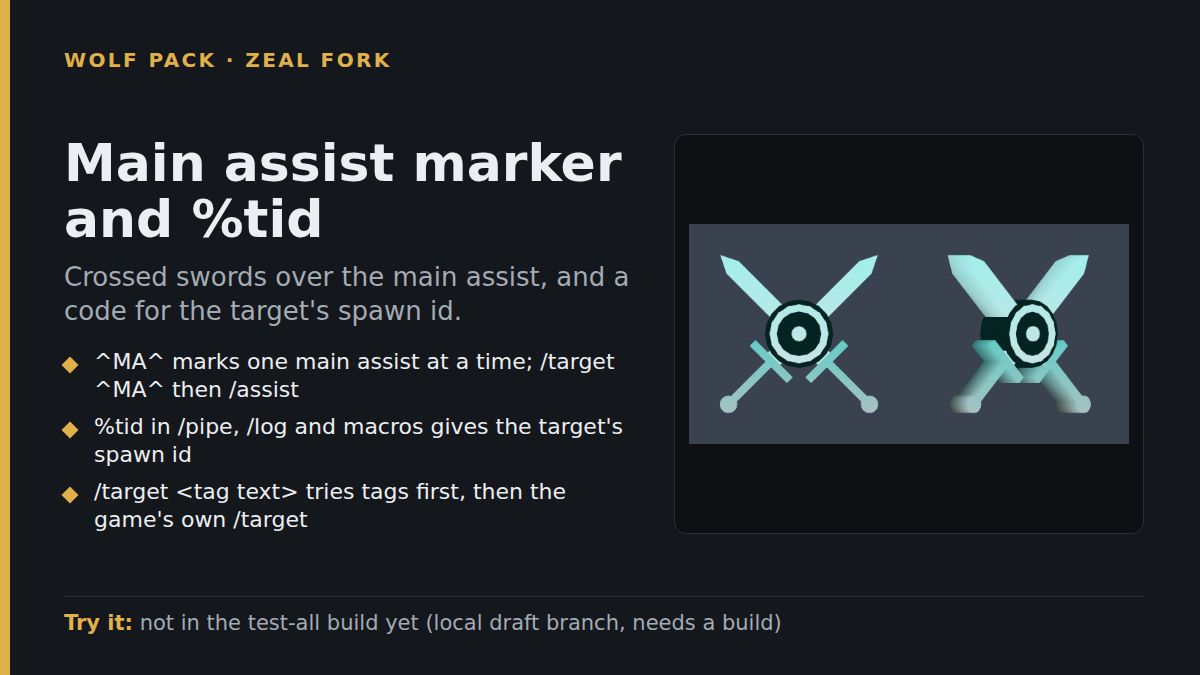
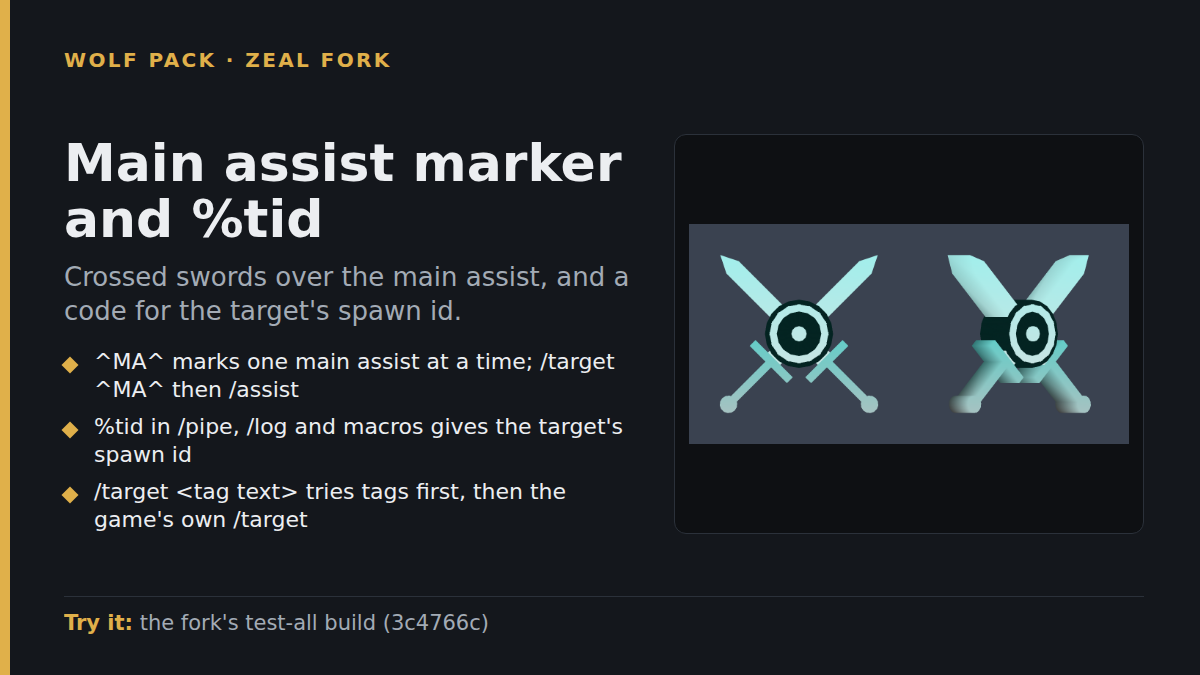
showcase: four drafts now in the test-all build (3c4766c)
Claude-Session: https://claude.ai/code/session_01Uq6P6RYLtiKKfy5UWjT7AX

Changed region(s): [[0.1233, 0.9022, 0.6475, 0.9333]]

diff --git a/showcase/README.md b/showcase/README.md
@@ -27,10 +27,10 @@ The table is generated by `tools/render-posters.js` from the JSON files in `post
 | [<img src="posters/hide-ui-cursor-banner.png" width="320" alt="A cursor with the UI hidden">](posters/hide-ui-cursor.png) | **[A cursor with the UI hidden](hide-ui-cursor/README.md)**<br>Press F10 and still see your mouse, so you can still click mobs. | draft<br>`hide-ui-cursor` |  | [test-all](https://github.com/davehess/Zeal/releases/tag/test-all-build) | [cases](hide-ui-cursor/TEST-CASES.md) |
 | [<img src="posters/guild-emblems-banner.png" width="320" alt="Guild banners, icons and marks">](posters/guild-emblems.png) | **[Guild banners, icons and marks](guild-emblems/README.md)**<br>Every guild gets a flag and an icon, and players can show their guild automatically. | draft<br>`tag-shapes` |  | [test-all](https://github.com/davehess/Zeal/releases/tag/test-all-build) | [cases](guild-emblems/TEST-CASES.md) |
 | [<img src="posters/spawn-id-banner.png" width="320" alt="Spawn ids on the Zeal pipe">](posters/spawn-id.png) | **[Spawn ids on the Zeal pipe](spawn-id/README.md)**<br>Tools can now tell two mobs with the same name apart. | merged<br>`merged upstream (1.4.6)` | [CoastalRedwood/Zeal/pull/229](https://github.com/CoastalRedwood/Zeal/pull/229) | [test-all](https://github.com/davehess/Zeal/releases/tag/test-all-build) | [cases](spawn-id/TEST-CASES.md) |
-| [<img src="posters/main-assist-banner.png" width="320" alt="Main assist marker and %tid">](posters/main-assist.png) | **[Main assist marker and %tid](main-assist/README.md)**<br>Crossed swords over the main assist, and a code for the target's spawn id. | draft<br>`ma-draft (local)` |  | not yet | [cases](main-assist/TEST-CASES.md) |
-| [<img src="posters/mez-slow-keys-banner.png" width="320" alt="Mez and slow tags">](posters/mez-slow-keys.png) | **[Mez and slow tags](mez-slow-keys/README.md)**<br>The moon becomes ^MEZ^, and ^SLOW^ adds an hourglass. | draft<br>`ma-draft (local)` |  | not yet | [cases](mez-slow-keys/TEST-CASES.md) |
-| [<img src="posters/auto-raid-lead-banner.png" width="320" alt="Raid lead by password">](posters/auto-raid-lead.png) | **[Raid lead by password](auto-raid-lead/README.md)**<br>/autoraidinvite now survives a restart, and /autoraidlead hands over raid lead. | draft<br>`raidlead-draft (local)` |  | not yet | [cases](auto-raid-lead/TEST-CASES.md) |
-| [<img src="posters/guild-icon-refresh-banner.png" width="320" alt="Guild icons and banners, round two">](posters/guild-icon-refresh.png) | **[Guild icons and banners, round two](guild-icon-refresh/README.md)**<br>Every guild banner carries the guild's own icon, in its own colours, and the guild's full name. | draft<br>`guildicon-draft (local)` |  | not yet | [cases](guild-icon-refresh/TEST-CASES.md) |
+| [<img src="posters/main-assist-banner.png" width="320" alt="Main assist marker and %tid">](posters/main-assist.png) | **[Main assist marker and %tid](main-assist/README.md)**<br>Crossed swords over the main assist, and a code for the target's spawn id. | draft<br>`ma-draft` |  | [test-all](https://github.com/davehess/Zeal/releases/tag/test-all-build) | [cases](main-assist/TEST-CASES.md) |
+| [<img src="posters/mez-slow-keys-banner.png" width="320" alt="Mez and slow tags">](posters/mez-slow-keys.png) | **[Mez and slow tags](mez-slow-keys/README.md)**<br>The moon becomes ^MEZ^, and ^SLOW^ adds an hourglass. | draft<br>`ma-draft` |  | [test-all](https://github.com/davehess/Zeal/releases/tag/test-all-build) | [cases](mez-slow-keys/TEST-CASES.md) |
+| [<img src="posters/auto-raid-lead-banner.png" width="320" alt="Raid lead by password">](posters/auto-raid-lead.png) | **[Raid lead by password](auto-raid-lead/README.md)**<br>/autoraidinvite now survives a restart, and /autoraidlead hands over raid lead. | draft<br>`raidlead-draft` |  | [test-all](https://github.com/davehess/Zeal/releases/tag/test-all-build) | [cases](auto-raid-lead/TEST-CASES.md) |
+| [<img src="posters/guild-icon-refresh-banner.png" width="320" alt="Guild icons and banners, round two">](posters/guild-icon-refresh.png) | **[Guild icons and banners, round two](guild-icon-refresh/README.md)**<br>Every guild banner carries the guild's own icon, in its own colours, and the guild's full name. | draft<br>`guildicon-draft` |  | [test-all](https://github.com/davehess/Zeal/releases/tag/test-all-build) | [cases](guild-icon-refresh/TEST-CASES.md) |
 <!-- index:end -->
 
 ## Folders

diff --git a/showcase/auto-raid-lead/README.md b/showcase/auto-raid-lead/README.md
@@ -2,7 +2,7 @@
 
 # Auto raid lead, and `/autoraidinvite` that survives a restart
 
-*Local draft branch `raidlead-draft` on our fork (`b15b8a2`, on top of `ma-draft`). Status: draft, not pushed, not compiled. Needs a two-person raid test before anyone relies on it.*
+*Fork branch `raidlead-draft` (`b15b8a2`, on top of `ma-draft`). Status: draft; in the test-all build, compiled by GitHub, not yet run in game. Needs a two-person raid test before anyone relies on it.*
 
 ![Diagram: leader sets a password, a raid member tells it, checks pass, raid lead moves](diagram.png)
 
@@ -20,7 +20,7 @@ Both passwords live in `zeal.ini` under `AutoRaidInvite` and `AutoRaidLead`. A t
 - Honest status: not compiled and not run in game; reviewed by reading only. The packet layout was built from the server source and must be proven in a two-person raid.
 - Open question for the maintainers: Quarm's rules on automation. This acts on a tell the way `/autoraidinvite` already does, but a written view would help.
 
-**Try it:** not in the fork's test-all build yet (https://github.com/davehess/Zeal/releases/tag/test-all-build). It needs a build of `raidlead-draft`.
+**Try it:** in the fork's test-all build (https://github.com/davehess/Zeal/releases/tag/test-all-build), `3c4766c` or later.
 
 ---
 [Test cases](TEST-CASES.md) · [Poster](../posters/auto-raid-lead.png) · [All changes](../README.md)

diff --git a/showcase/guild-icon-refresh/README.md b/showcase/guild-icon-refresh/README.md
@@ -2,7 +2,7 @@
 
 # Guild icons and banners, round two
 
-*Fork branch `guildicon-draft` (`dca0b85`, local, stacked on `raidlead-draft`). Status: draft, not compiled with Visual Studio yet.*
+*Fork branch `guildicon-draft` (`dca0b85`, on `ma-draft`). Status: draft; in the test-all build, compiled by GitHub on 2026-10-10, not yet run in game.*
 
 ![Every guild's icon beside its new banner](icons-vs-banners.png)
 
@@ -29,9 +29,9 @@ their own. The flag keeps the guild's colour, so colour still tells guilds apart
 **How tested**
 - Every banner and the cigarette were rendered off the game from the real meshes, each beside its icon (above).
 - `tag_shapes.cpp` compiles cleanly with `g++ -Wall -Wextra`.
-- `tag_arrows.cpp` (Direct3D) is not compiled yet, and nothing has run in game. Cases are in [`TEST-CASES.md`](TEST-CASES.md).
+- The whole fork, `tag_arrows.cpp` (Direct3D) included, compiled in the GitHub build of test-all (`3c4766c`); nothing has run in game yet. Cases are in [`TEST-CASES.md`](TEST-CASES.md).
 
-**Try it:** not in the fork's test-all build yet (https://github.com/davehess/Zeal/releases/tag/test-all-build).
+**Try it:** in the fork's test-all build (https://github.com/davehess/Zeal/releases/tag/test-all-build), `3c4766c` or later.
 
 ---
 [Test cases](TEST-CASES.md) · [Poster](../posters/guild-icon-refresh.png) · [All changes](../README.md)

diff --git a/showcase/mez-slow-keys/README.md b/showcase/mez-slow-keys/README.md
@@ -2,7 +2,7 @@
 
 # Mez and slow tags: the moon is `^MEZ^`, plus a `^SLOW^` hourglass
 
-*Local draft branch `ma-draft` on our fork (`116d3ed`). Status: draft, not pushed, not compiled. It changes a key from the tag shapes change, so it should land with or after it.*
+*Fork branch `ma-draft` (`116d3ed`). Status: draft; in the test-all build, compiled by GitHub, not yet run in game. It changes a key from the tag shapes change, so it should land with or after it.*
 
 ![The moon (mez) and the new hourglass (slow), front and turned](mez-slow.png)
 
@@ -20,7 +20,7 @@ All multi-letter keys (`WP`, `MA`, `MEZ`, `SLOW`) now live in one table read by 
 - The shape file builds clean with g++ and both meshes were previewed off the game.
 - Known breaking point: an existing `^M^` tag stops drawing a moon, so anything that watches for it (our raid tools included) has to learn `^MEZ^`. The cases in [`TEST-CASES.md`](TEST-CASES.md) check the old and new keys side by side.
 
-**Try it:** not in the fork's test-all build yet (https://github.com/davehess/Zeal/releases/tag/test-all-build). It needs a build of `ma-draft`.
+**Try it:** in the fork's test-all build (https://github.com/davehess/Zeal/releases/tag/test-all-build), `3c4766c` or later.
 
 ---
 [Test cases](TEST-CASES.md) · [Poster](../posters/mez-slow-keys.png) · [All changes](../README.md)

diff --git a/showcase/main-assist/README.md b/showcase/main-assist/README.md
@@ -2,7 +2,7 @@
 
 # Main assist marker, `%tid`, and `/target` by tag
 
-*Local draft branch `ma-draft` on our fork (`206b884`, three commits on top of the test build). Status: draft, not pushed, not compiled.*
+*Fork branch `ma-draft` (`206b884`). Status: draft; in the test-all build, compiled by GitHub on 2026-10-10, not yet run in game.*
 
 ![The main assist marker, front and turned: crossed swords with a target on the crossing](mainassist-swords.png)
 
@@ -22,7 +22,7 @@ Take main assist: target yourself, then `/tag chat ^MA^`. Everyone else: `/targe
 - The shape file builds clean with g++ and the mesh was previewed off the game (352 vertices, colour checked unique against every other tag).
 - The next step is a build and the cases in [`TEST-CASES.md`](TEST-CASES.md), including a two-client check that the marker moves.
 
-**Try it:** not in the fork's test-all build yet (https://github.com/davehess/Zeal/releases/tag/test-all-build). It needs a build of `ma-draft`.
+**Try it:** in the fork's test-all build (https://github.com/davehess/Zeal/releases/tag/test-all-build), `3c4766c` or later.
 
 ---
 [Test cases](TEST-CASES.md) · [Poster](../posters/main-assist.png) · [All changes](../README.md)

diff --git a/showcase/main-assist/TEST-CASES.md b/showcase/main-assist/TEST-CASES.md
@@ -1,7 +1,7 @@
 # Test cases: main assist marker, `%tid`, and `/target` by tag
 
-For the local draft branch `ma-draft` (`206b884`). It is **not compiled with MSVC, not pushed, and not in the
-test-all build**: build it first (the fork's README has the msbuild line) and install the resulting `Zeal.asi`. Cases 1
+For the fork branch `ma-draft` (`206b884`), included in the test-all build (`3c4766c`, compiled by GitHub, **not yet
+run in game**). Install that build's `Zeal.asi` (or Mimic → Settings → Zeal → Test build). Cases 1
 to 3 need one client; 4 to 9 need two clients in one raid.
 
 **Common setup:** `/tag on`. A first build that does not compile is itself a result: note the errors under case 1.

diff --git a/showcase/mez-slow-keys/TEST-CASES.md b/showcase/mez-slow-keys/TEST-CASES.md
@@ -1,7 +1,7 @@
 # Test cases: `^MEZ^` moon and `^SLOW^` hourglass
 
-For the local draft branch `ma-draft` (`116d3ed`, included in `206b884`). **Not compiled with MSVC, not pushed, not in the
-test-all build.** Build it and install `Zeal.asi` first. It changes the moon key from `^M^`, so these cases check the old
+For the fork branch `ma-draft` (`116d3ed`, included in `206b884`), in the test-all build (`3c4766c`, compiled by
+GitHub, **not yet run in game**). Install that build's `Zeal.asi` first. It changes the moon key from `^M^`, so these cases check the old
 and new keys side by side.
 
 **Common setup:** `/tag on`, target an NPC, use `/tag local`. Finish with `/tag clear`.

diff --git a/showcase/guild-icon-refresh/TEST-CASES.md b/showcase/guild-icon-refresh/TEST-CASES.md
@@ -1,8 +1,8 @@
 # Test cases: guild icon and banner refresh
 
-For the fork branch `guildicon-draft` (`dca0b85`). **Not compiled with MSVC, not run in game.**
+For the fork branch `guildicon-draft` (`dca0b85`), in the test-all build (`3c4766c`, compiled by GitHub). **Not run in game.**
 
-**Common setup:** build `guildicon-draft`, install `Zeal.asi`, `/tag on`, target an NPC, use `/tag local`.
+**Common setup:** install the test-all build's `Zeal.asi`, `/tag on`, target an NPC, use `/tag local`.
 References: `icons-vs-banners.png` (each guild's icon beside its banner) and `banners-sheet.png` (old code banner,
 logo only, logo with name).
 

diff --git a/showcase/auto-raid-lead/TEST-CASES.md b/showcase/auto-raid-lead/TEST-CASES.md
@@ -1,6 +1,6 @@
 # Test cases: `/autoraidlead` and a persistent `/autoraidinvite`
 
-For the local draft branch `raidlead-draft` (`b15b8a2`). **Not compiled with MSVC, not pushed, not run in game.** The
+For the fork branch `raidlead-draft` (`b15b8a2`), in the test-all build (`3c4766c`, compiled by GitHub). **Not run in game.** The
 handoff packet was built from the server source and must be proven in a two-person raid before anyone relies on it. Use
 a throwaway raid and a throwaway password such as `owl7` (the password is stored in plain text in `zeal.ini`).
 
